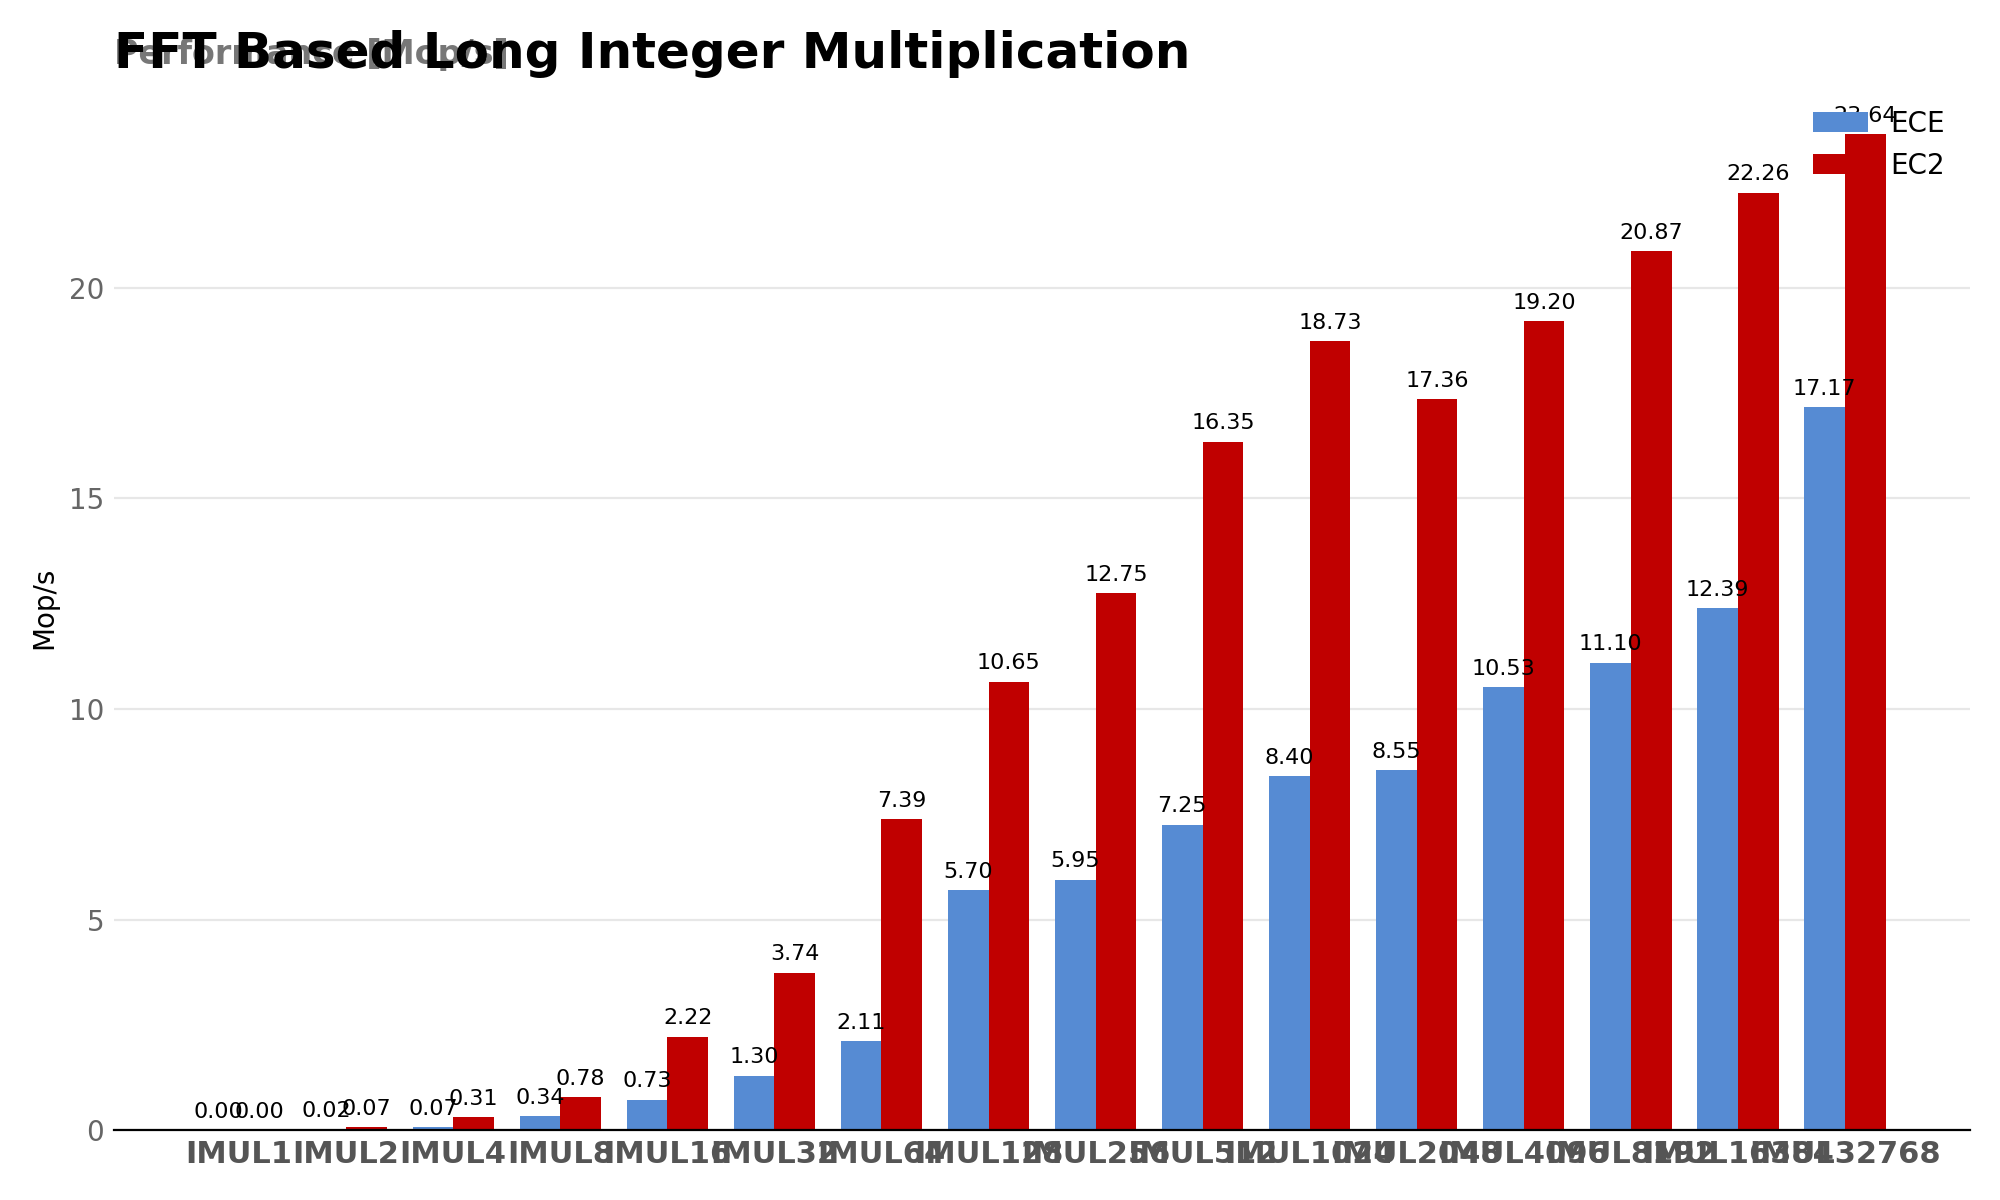
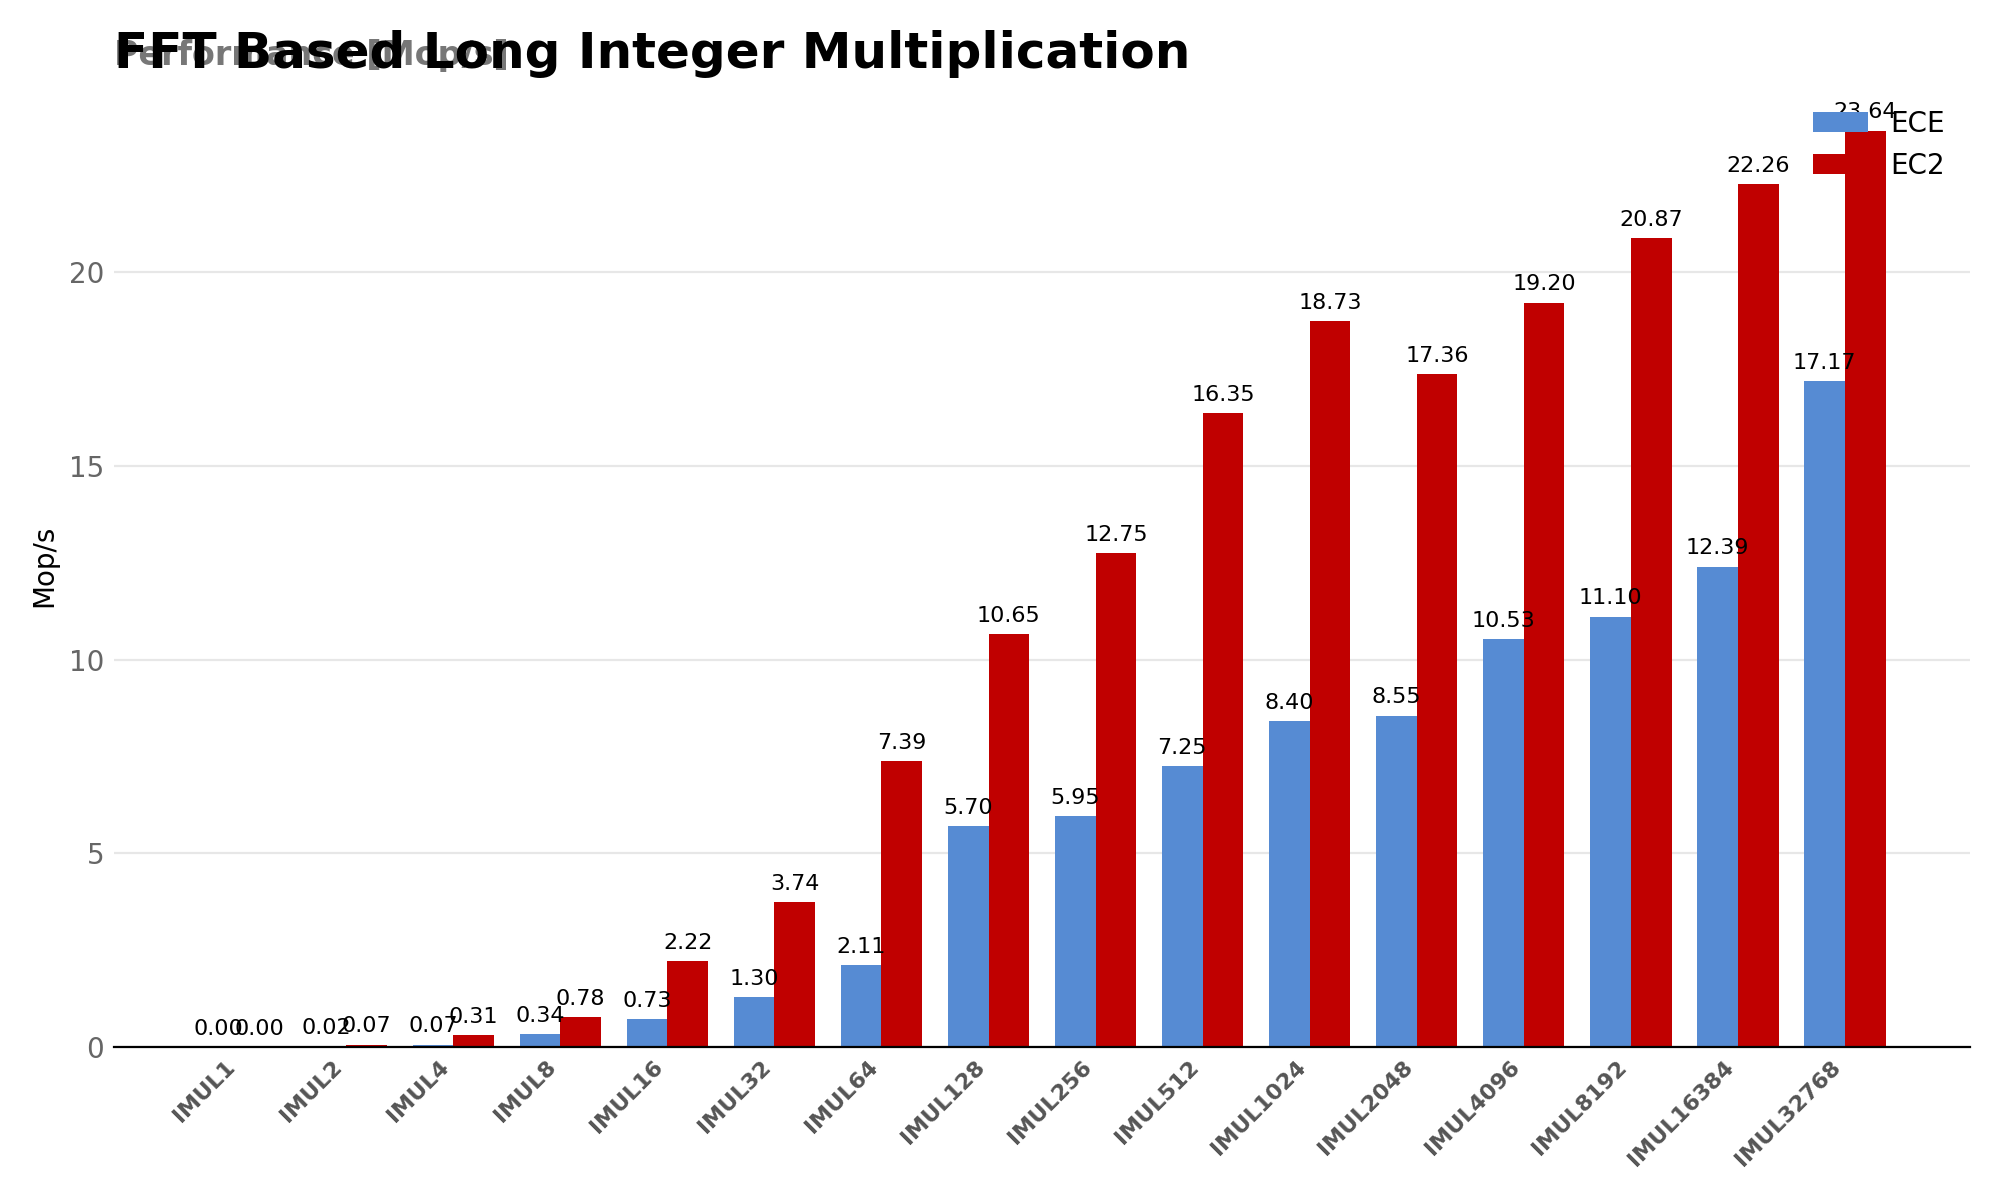
modify plot code

diff --git a/src/part3_cuda/plot_results.py b/src/part3_cuda/plot_results.py
@@ -40,17 +40,19 @@ def main() -> None:
             writer.writerow([f"IMUL{n}", n * n, operations, n, log_n,
                              f"{runtime_ms:.6f}", f"{mops:.6f}"])
 
-    figure, axis = plt.subplots(figsize=(10, 6))
+    positions = list(range(len(rows)))
+    figure_width = max(10, min(18, 5 + len(rows) * 0.35))
+    figure, axis = plt.subplots(figsize=(figure_width, 6))
     values = [row[4] for row in rows]
-    bars = axis.bar([row[0] for row in rows], values, color="#568bd3", width=0.7)
+    bars = axis.bar(positions, values, color="#568bd3", width=0.7, label="GPU")
     axis.set_title("GPU FFT Based Long Integer Multiplication",
                    loc="left", fontweight="bold", fontsize=18)
-    axis.text(0, 1.02, "Performance [Mop/s]", transform=axis.transAxes,
+    axis.text(0, 1.01, "Performance [Mop/s]", transform=axis.transAxes,
               color="#777777", fontsize=12, fontweight="bold")
-    axis.set_xlabel("Problem size")
     axis.set_ylabel("Mop/s")
-    axis.set_xticks([row[0] for row in rows],
+    axis.set_xticks(positions,
                     [f"IMUL{row[0]}" for row in rows])
+    axis.legend(loc="upper right", frameon=False)
     axis.grid(axis="y", alpha=0.3)
     axis.set_axisbelow(True)
     axis.spines["top"].set_visible(False)
@@ -60,7 +62,21 @@ def main() -> None:
     axis.tick_params(axis="x", length=0, colors="#555555")
     for label in axis.get_xticklabels():
         label.set_fontweight("bold")
-    axis.bar_label(bars, fmt="%.2f", padding=3, fontsize=8)
+        label.set_fontsize(8)
+        label.set_rotation(45)
+        label.set_horizontalalignment("right")
+    for bar, value in zip(bars, values):
+        if value > 0:
+            axis.text(
+                bar.get_x() + bar.get_width() / 2,
+                value,
+                f"{value:.2f}",
+                ha="center",
+                va="bottom",
+                fontsize=7,
+                rotation=90,
+                clip_on=True,
+            )
     figure.tight_layout()
     args.plot.parent.mkdir(parents=True, exist_ok=True)
     figure.savefig(args.plot, dpi=200)

diff --git a/src/part2_python/plot_results.py b/src/part2_python/plot_results.py
@@ -62,7 +62,9 @@ def _plot(table: Path, algorithm: str, output: Path) -> None:
     axis.set_axisbelow(True)
     for label in axis.get_xticklabels():
         label.set_fontweight("bold")
-        label.set_fontsize(11)
+        label.set_fontsize(8)
+        label.set_rotation(45)
+        label.set_horizontalalignment("right")
     for container in axis.containers:
         axis.bar_label(container, fmt="%.2f", padding=3, fontsize=8)
     figure.tight_layout()
